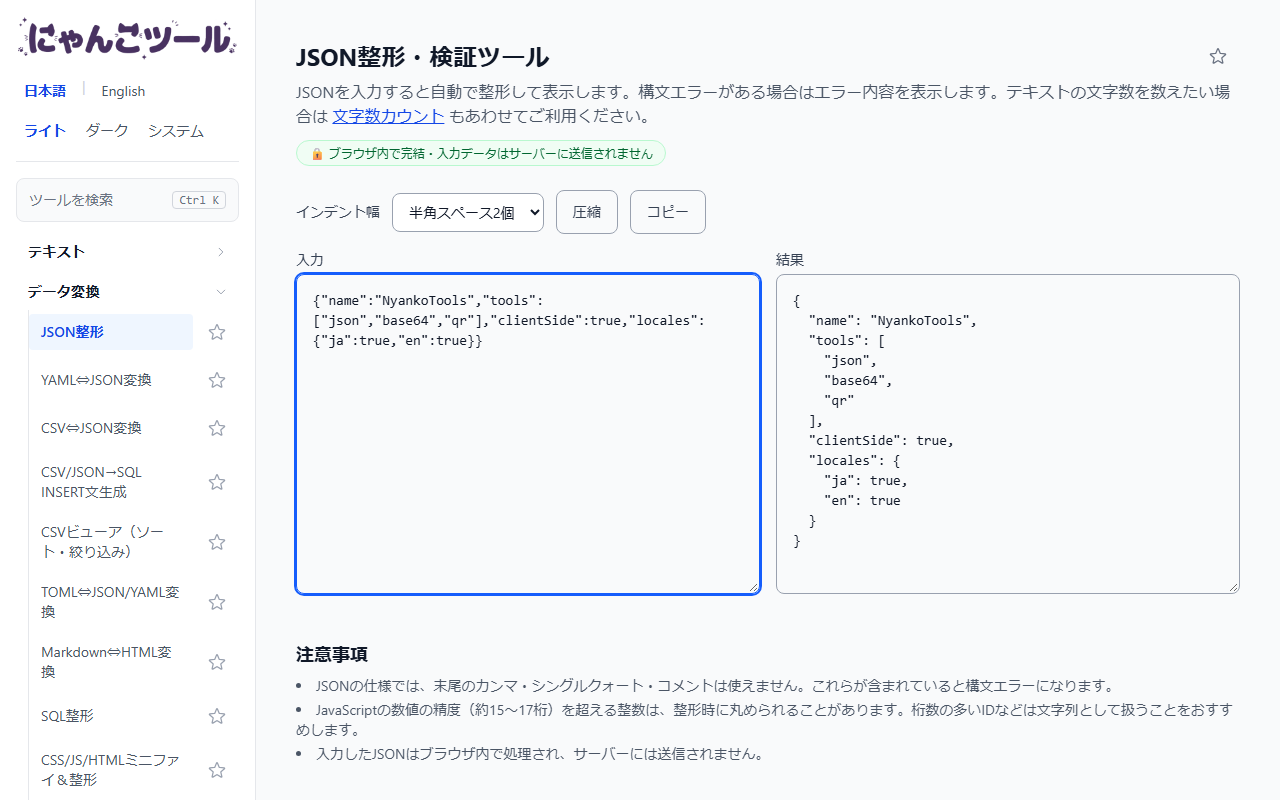
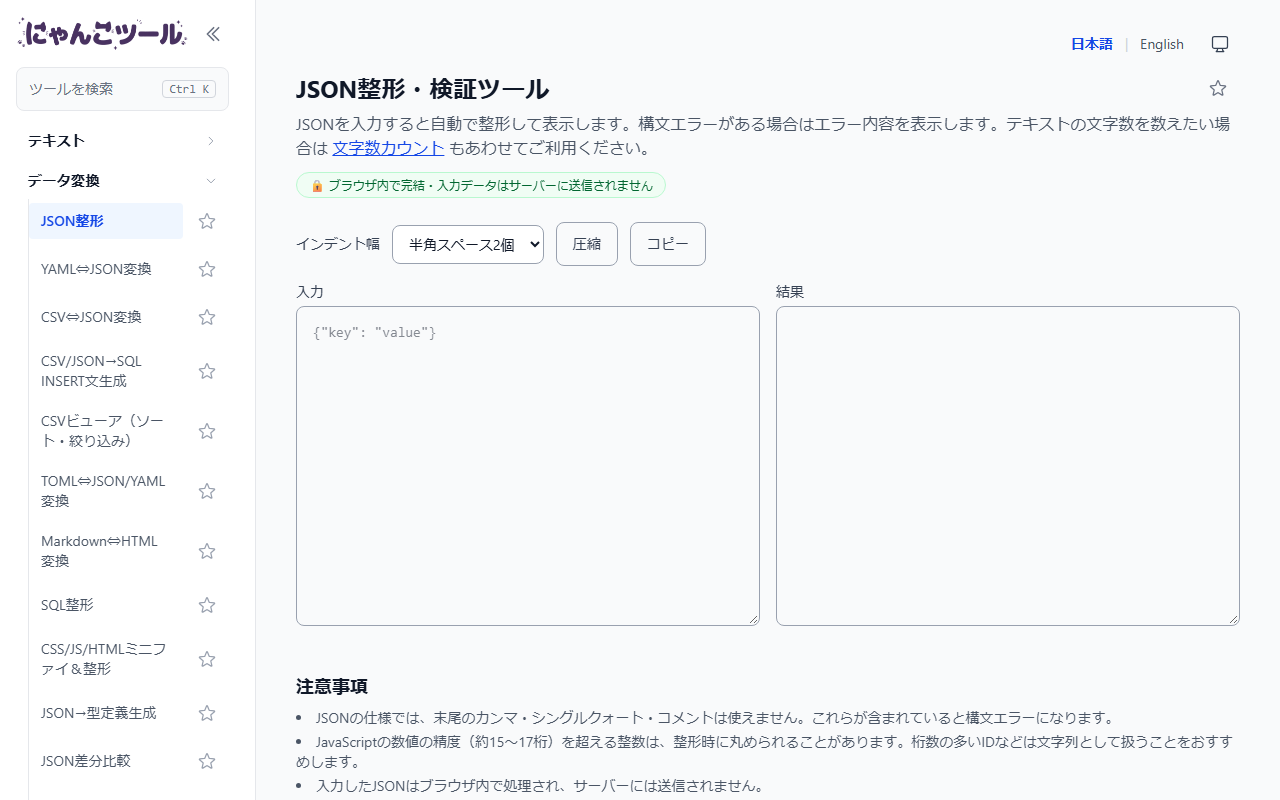
READMEを最新化し、スクリーンショットを撮り直す
- コマンド一覧に pnpm precheck を追加
- ディレクトリ構成に scripts / .github/workflows / .claude を追記
- 開発フローをPR Check・main保護・E2Eの扱いに合わせて更新
- docs/images のスクリーンショット（トップ・JSON整形）を現行レイアウトで再撮影

diff --git a/README.md b/README.md
@@ -83,6 +83,7 @@ pnpm run test:e2e     # Playwright E2E
 pnpm run test:e2e:ui  # Playwright E2E（UIモード）
 pnpm qa <slug…>       # 対象ツールのspecだけを実行するQA用ラッパー（scripts/qa.mjs）
 pnpm run check:bundle # JSバンドル予算のチェック（scripts/bundle-budget.mjs）
+pnpm precheck         # PR Check相当（prettier・eslint・astro check・vitest・build・バンドル予算）を一括実行
 ```
 
 ## ディレクトリ構成
@@ -107,18 +108,23 @@ src/
     about/, contact/, faq/, privacy-policy/, terms-of-service/
   styles/global.css
 e2e/                          # Playwright E2E テスト（*.spec.ts）
+scripts/                      # QAラッパー・バンドル予算チェック・OGP生成
 docs/spec.md                  # 仕様書
+.github/workflows/            # CI（pr.yml: PR Check / ci.yml: test・e2e・deploy）
+.claude/                      # Claude Code 用のドキュメント・エージェント・コマンド
 ```
 
 新規ツール追加の手順は [`.claude/docs/adding-a-tool.md`](./.claude/docs/adding-a-tool.md) を参照してください。
 
 ## 開発フロー（このリポジトリ固有のルール）
 
-このリポジトリを Claude Code で扱う場合、ツールの追加・修正後は **実装 → レビュー（`tool-reviewer`）→ テスト（`tool-qa`）** の順で確認する運用になっています。人手で開発する場合も、コミット前に以下を通すことを推奨します。
+このリポジトリを Claude Code で扱う場合、ツールの追加・修正後は **実装 → レビュー（`tool-reviewer`）→ テスト（`tool-qa`）** の順で確認する運用になっています。人手で開発する場合も、`main` へのPR作成前に以下を通すことを推奨します（PR Check 相当）。
 
 ```bash
-pnpm exec astro check && pnpm run lint && pnpm test && pnpm build
+pnpm precheck
 ```
+
+`main` はブランチ保護されており、`develop` からのPR（CIの `check` 成功が必須）経由で反映します。E2E は PR Check に含まれず、`main` へのマージ後の `ci.yml` で実行され、test / e2e がともに成功したときだけデプロイされます。
 
 詳細は [`CLAUDE.md`](./CLAUDE.md) を参照してください。
 
